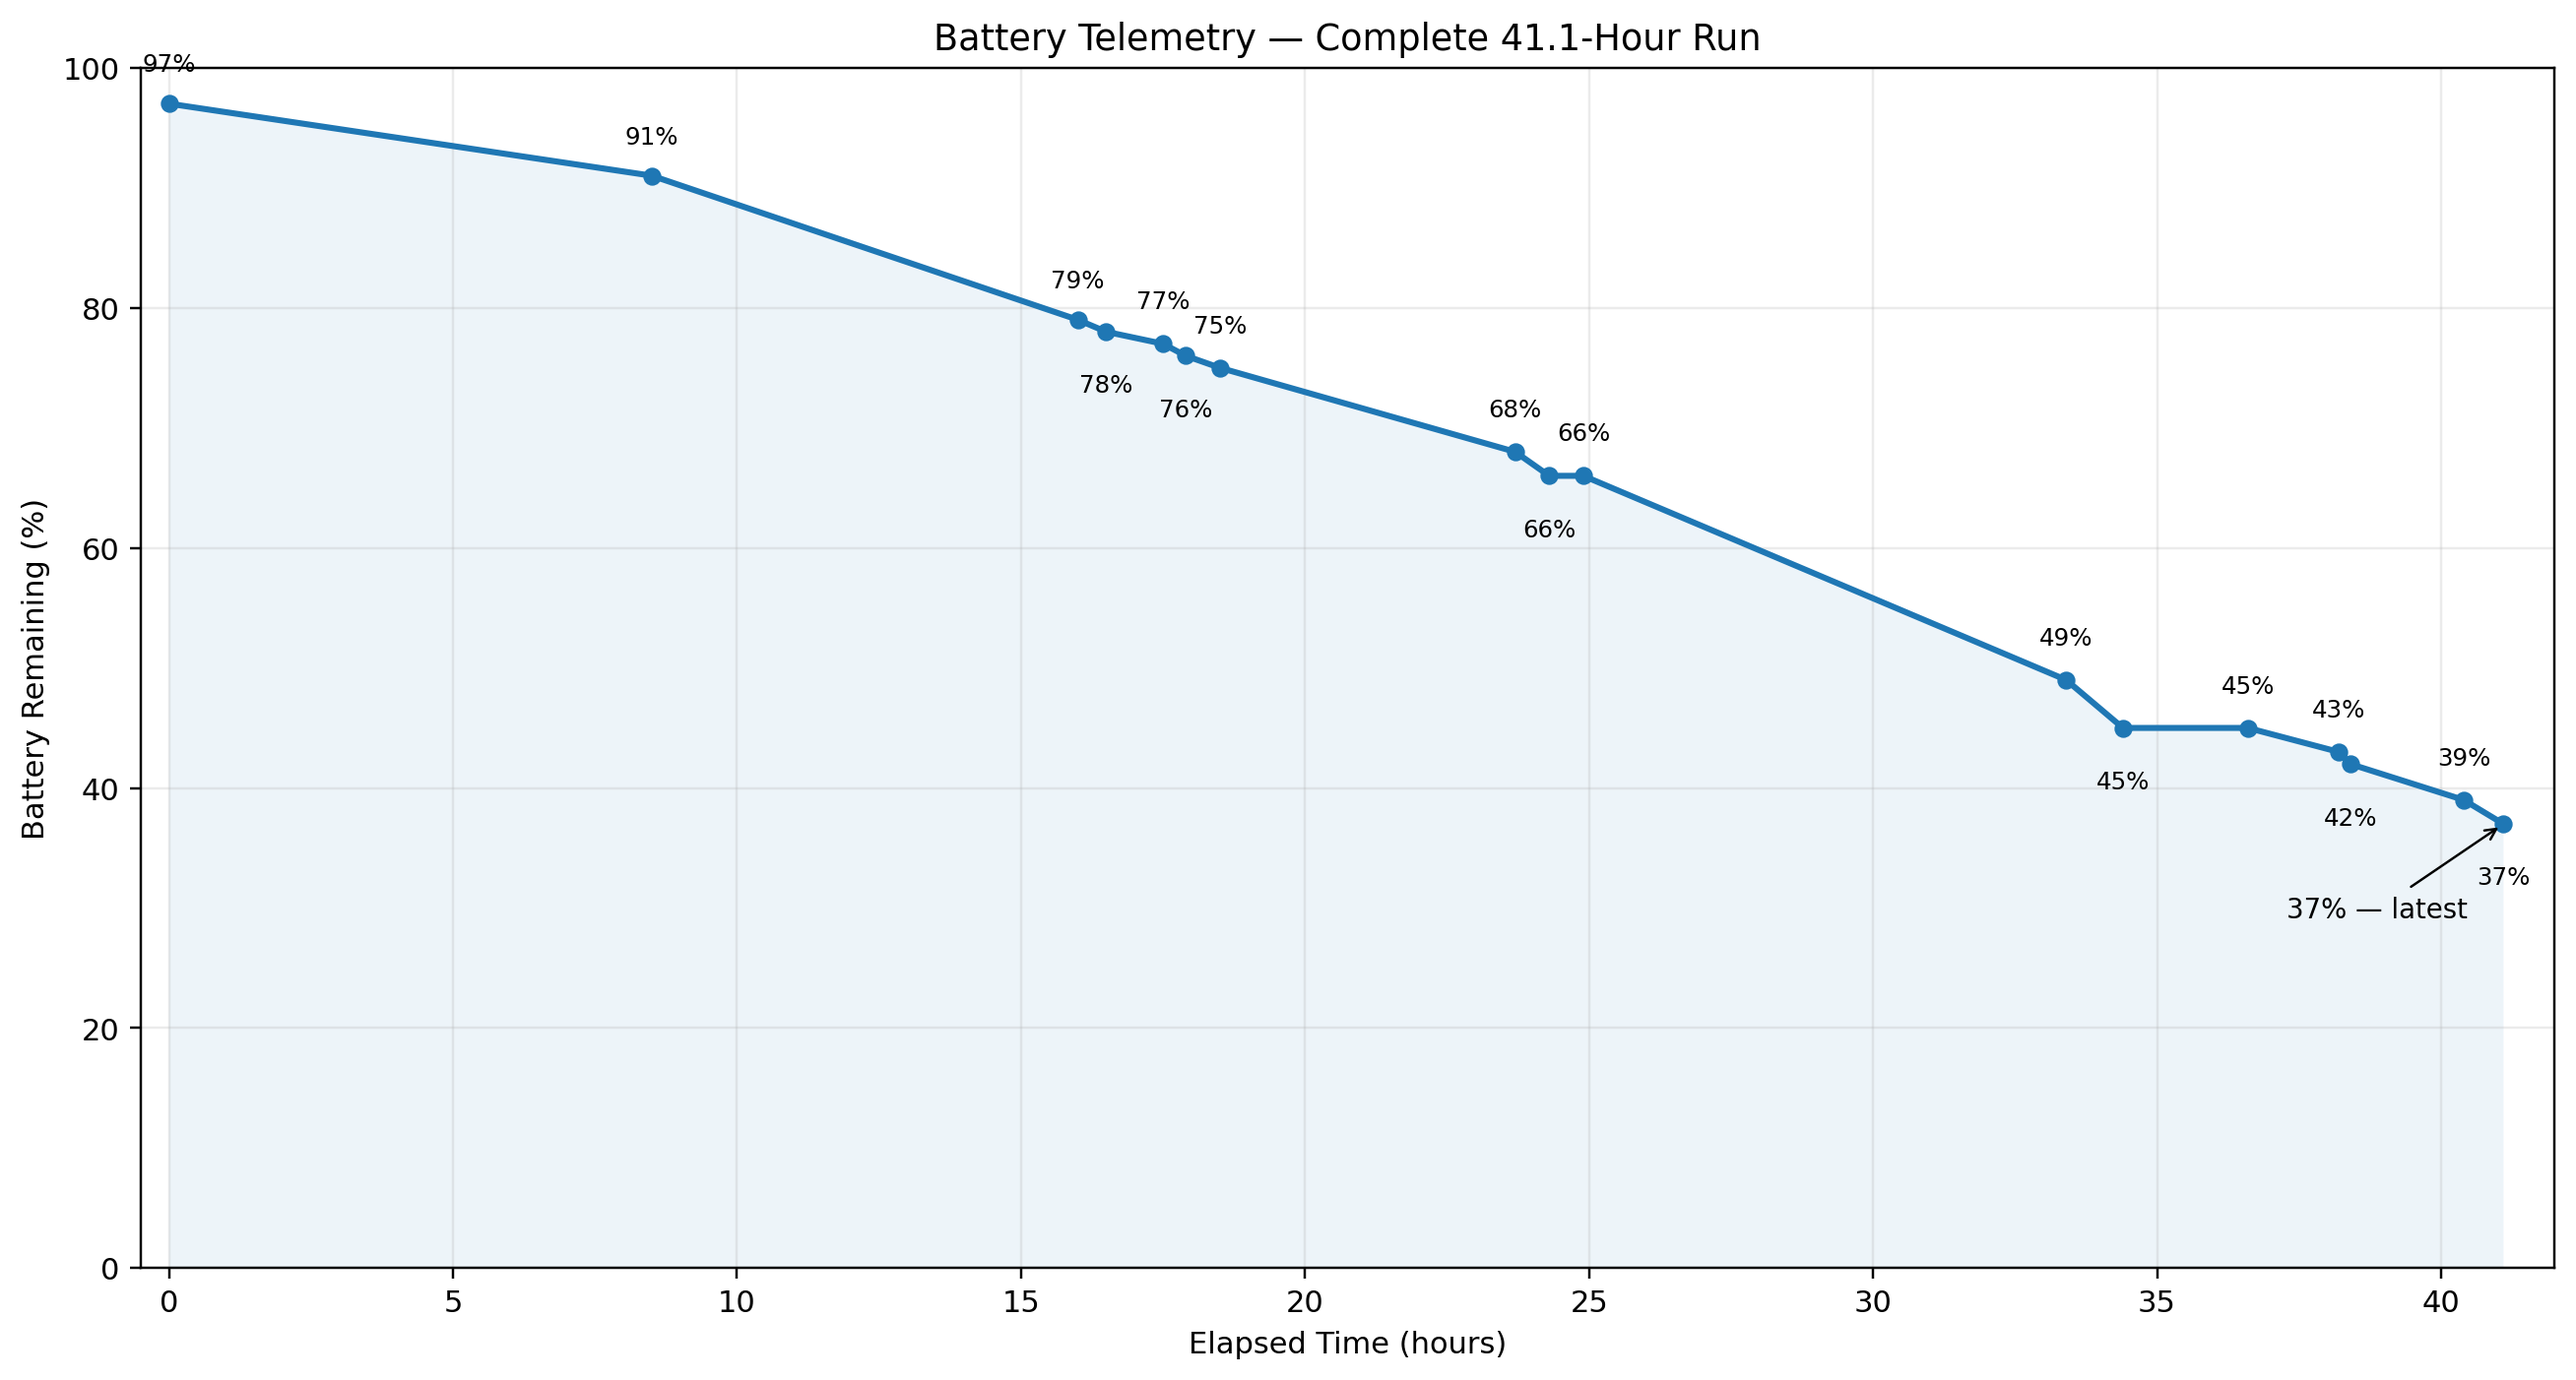
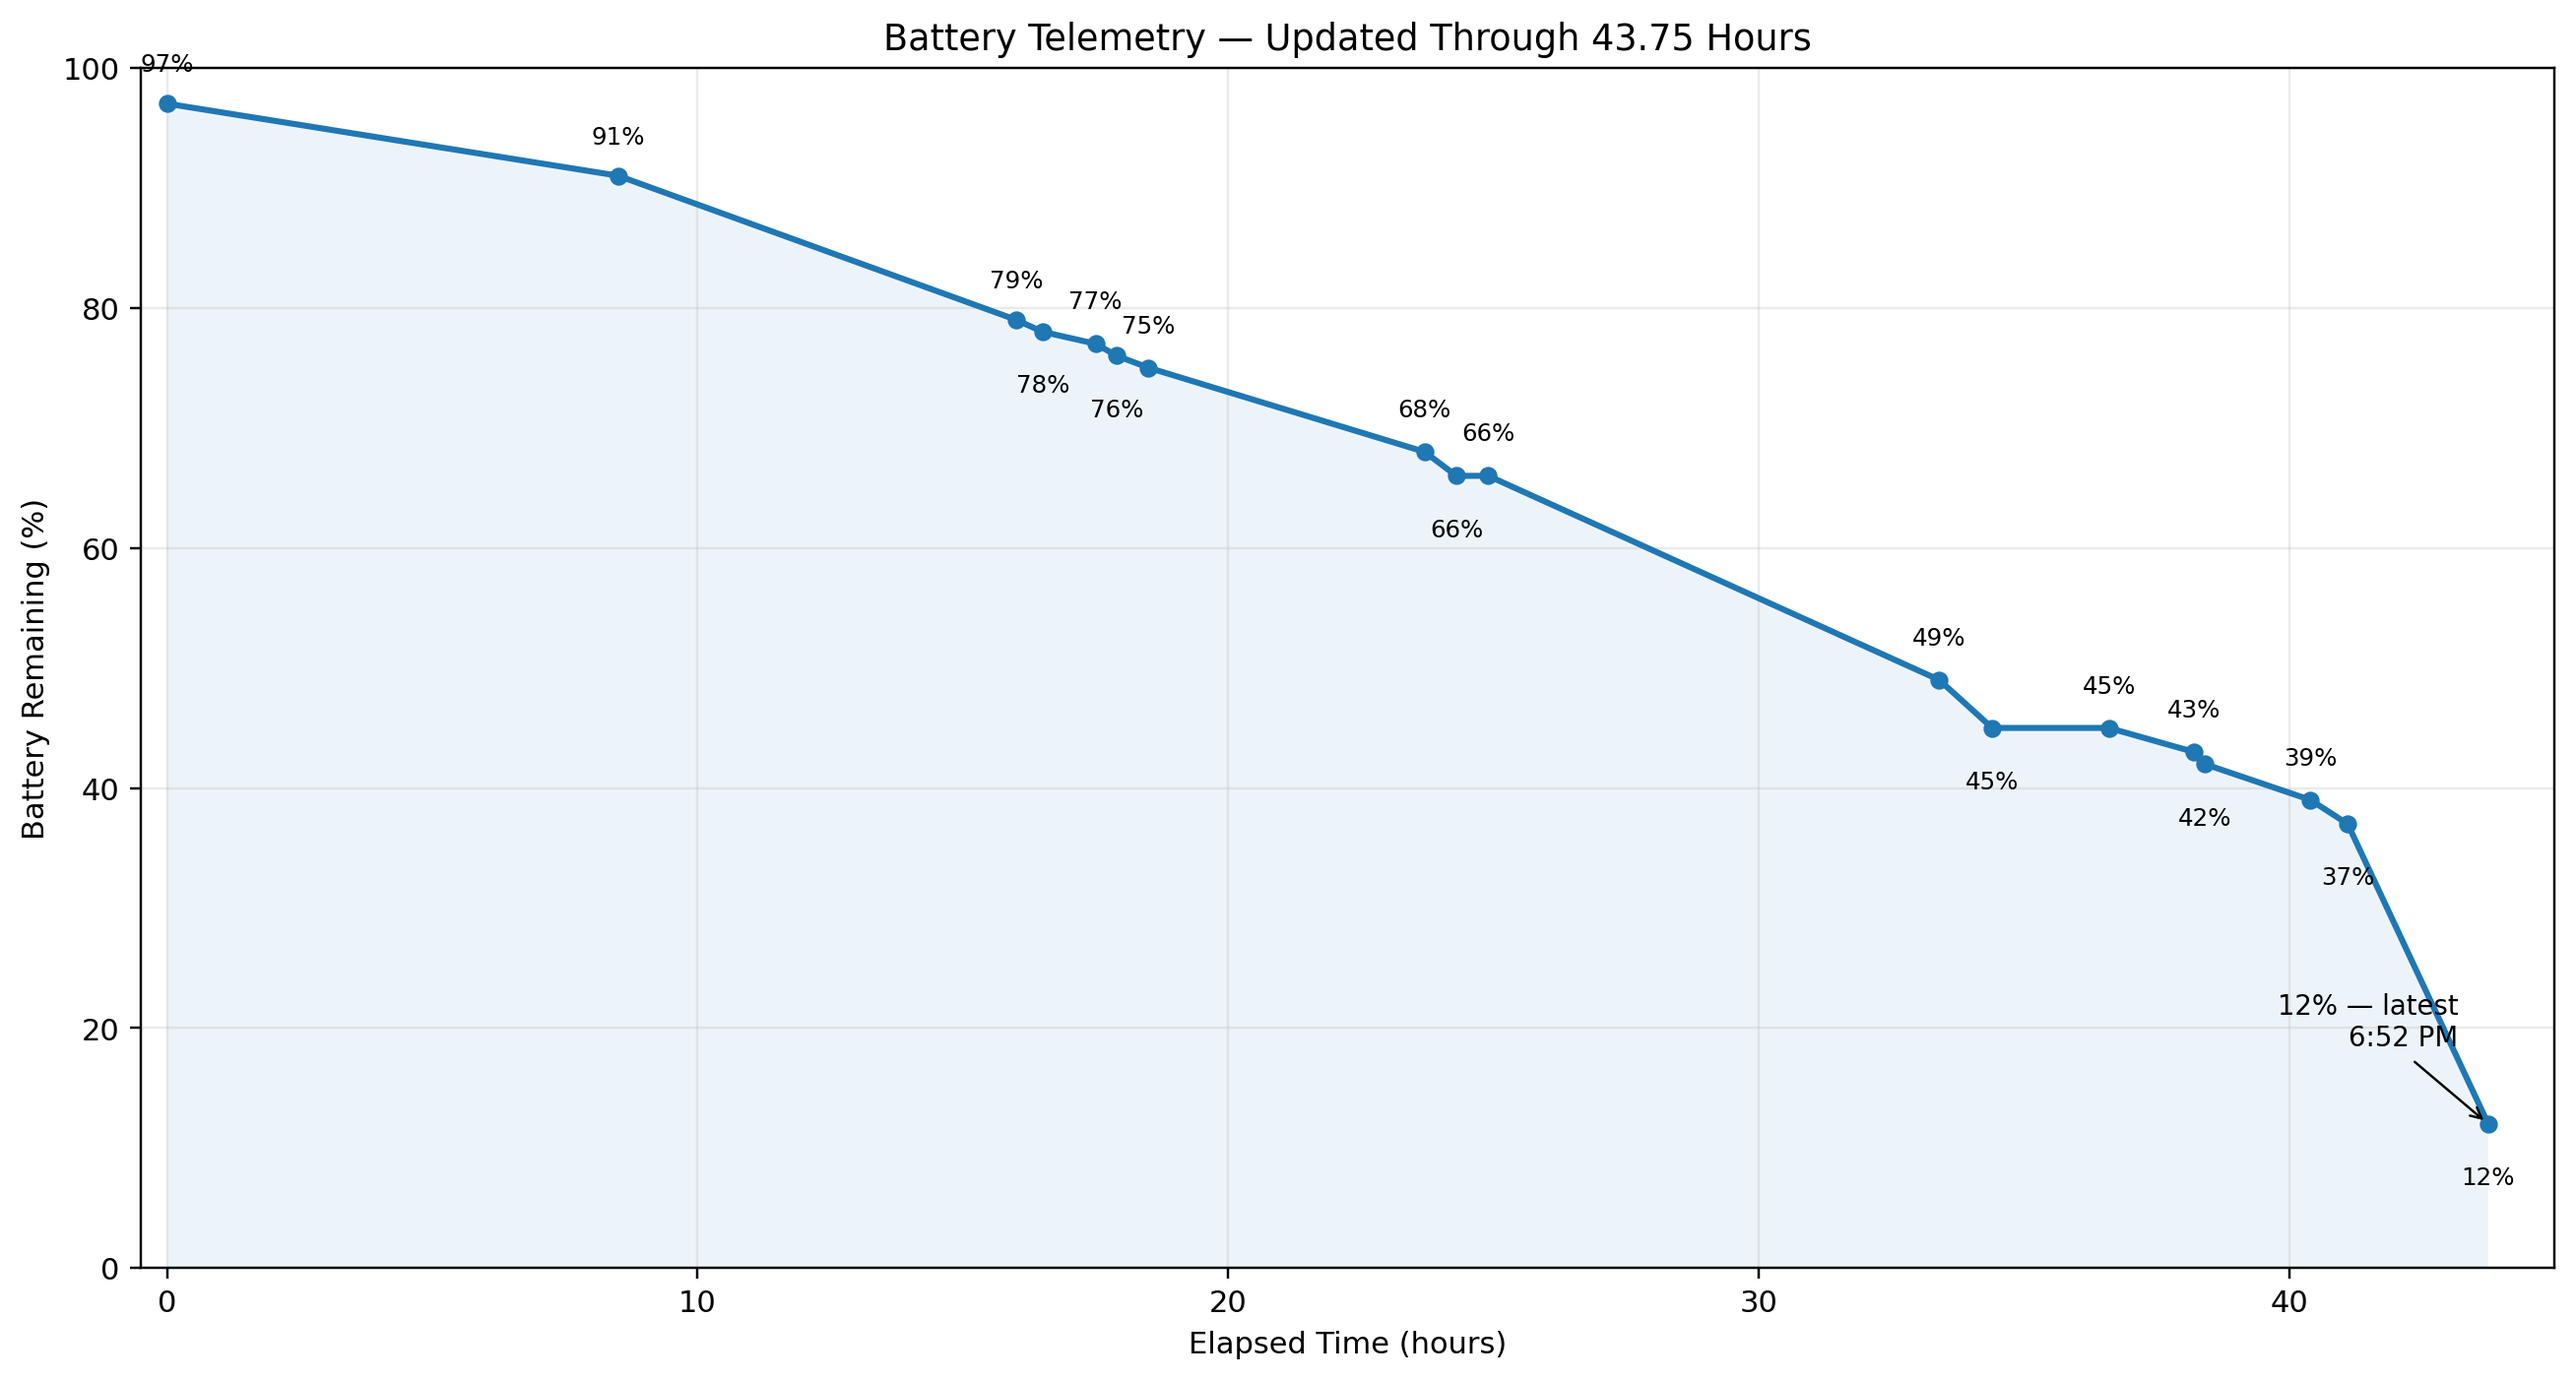
docs: Update battery benchmark to 43.75h with high-res plotted graph and 6.5GB video burst ingestion analysis

diff --git a/README.md b/README.md
@@ -222,29 +222,33 @@ To verify the energy efficiency and thermal profile of the Pixel 2 XL acting as 
 
 ### 📊 Benchmark Conditions & Operational Load
 * **Initial State:** Charged to **97%** on Monday, Aug 17 at 11:07 PM.
-* **Duration:** **41.1 Hours (~1.7 Days)** continuously unplugged from the wall.
-* **Ending State:** **37% Battery** remaining on Wednesday, Aug 19 at 4:13 PM.
+* **Duration:** **43.75 Hours (~1.8 Days)** continuously unplugged from the wall.
+* **Ending State:** **12% Battery** remaining on Wednesday, Aug 19 at 6:52 PM.
 * **Active Background Load:**
   - 🌙 **Always-On Display (AOD):** Kept active 24/7 (clock, date, Now Playing music detection).
   - 📶 **Wi-Fi & P2P Connectivity:** Always-on LAN socket for Resilio Sync listening.
-  - ☁ **Google Photos Cloud Sync:** Background indexing and cloud uploading.
+  - ☁ **Google Photos Cloud Sync:** Background indexing, video encoding, and cloud uploading.
   - 📈 **On-Screen Telemetry Widgets:** Live visual rendering of storage capacity and battery discharge graphs.
   - 🧹 **Active Buffer Purge:** Buffer filled up to 58.4 GB (~97% full) during the test and was safely purged back down to 23.2 GB without interrupting node operation.
+* **⚡ Ambient Sync vs. Heavy Burst Video Ingestion:**
+  - **Ambient Sync (Hours 0 – 41):** Routine photo batches (~500MB – 1GB) show up as tiny, subtle dips along a very gentle baseline drain curve (~1.46%/hr).
+  - **Massive Video Ingestion Burst (Hours 41.1 – 43.75):** Recorded and synced an unbroken **~30-minute 1080p 30fps video (~6.4 GB)** plus a 42-second clip (~170 MB), totalling **~6.57 GB of continuous burst ingestion**. The simultaneous high-bandwidth Wi-Fi transfer, rapid flash NAND writes, and intensive Google Photos video processing caused a steep, visible discharge from **37% down to 12%** in ~2.65 hours.
 
 ### 📈 Discharge & Thermal Metrics
 
 | Metric | Measured Value | Operational Insight |
 | :--- | :--- | :--- |
-| **Total Runtime (Unplugged)** | **41.1 Hours** | 97% → 37% (60% consumed over ~1.7 days) |
-| **Average Hourly Drain** | **~1.46% / hour** | ~35% battery consumed per 24 hours |
-| **Projected Total Battery Life** | **~68–72 Hours (~3 Full Days)** | Survives multi-day power outages with zero downtime |
+| **Total Runtime (Unplugged)** | **43.75 Hours** | 97% → 12% (85% consumed over ~1.8 days under mixed idle + burst load) |
+| **Baseline Idle / Ambient Drain** | **~1.46% / hour** | ~35% battery consumed per 24 hours under standard background sync |
+| **Heavy Video Ingestion Drain** | **~9.4% / hour** | Continuous 6.5GB+ video Wi-Fi sync, local flash writes, and cloud upload |
+| **Projected Total Battery Life** | **~50–70 Hours (~2–3 Days)** | Easily withstands extended power outages even with active data ingestion |
 | **Idle Thermal Profile (AC active)** | **67°F – 69°F (~19.4°C – 20.5°C)** | Sub-ambient thermal dissipation with room AC active |
 | **Standard Thermal Profile** | **77°F (~25.0°C)** | Nominal room temperature during active ingestion |
 
 ### 📊 Plotted Battery Discharge Curve
 
 <div align="center">
-  <img src="assets/battery_telemetry_graph.png" width="95%" style="border-radius: 12px; margin: 10px auto;" alt="Pixel 2 XL Battery Telemetry Plotted Discharge Curve (41.1-Hour Run)" />
+  <img src="assets/battery_telemetry_graph.png" width="95%" style="border-radius: 12px; margin: 10px auto;" alt="Pixel 2 XL Battery Telemetry Plotted Discharge Curve (43.75-Hour Run)" />
 </div>
 
 ### 🗓 Key Milestone Telemetry Checkpoints
@@ -252,12 +256,13 @@ To verify the energy efficiency and thermal profile of the Pixel 2 XL acting as 
 | Checkpoint | Elapsed | Battery % | Storage Buffer | Temp | Operational Event & System Notes |
 | :--- | :--- | :--- | :--- | :--- | :--- |
 | **Mon, Aug 17 · 11:07 PM** | 0.0 hrs | **97%** | 56.9 GB (95%) | — | 🔌 Unplugged from 7.5W adapter; benchmark begins |
-| **Tue, Aug 18 · 07:34 AM** | 8.5 hrs | **91%** | 56.8 GB (95%) | — | 🌙 Overnight standby with Always-On Display (0.71%/hr drain) |
+| **Tue, Aug 18 · 07:34 AM** | 8.5 hrs | **91%** | 56.8 GB (95%) | — | 🌙 Overnight standby with Always-On Display (0.71%/hr baseline) |
 | **Tue, Aug 18 · 03:04 PM** | 16.0 hrs | **79%** | 57.7 GB (96%) | — | 🔄 Background P2P LAN sync & incoming media ingestion |
 | **Tue, Aug 18 · 10:51 PM** | 23.7 hrs | **68%** | 58.4 GB (97%) | **77°F (25°C)** | ⏱ 24-Hour Milestone: only 29% battery consumed in 1 full day |
 | **Wed, Aug 19 · 08:28 AM** | 33.4 hrs | **49%** | 58.4 GB (98%) | **67°F (19.4°C)** | ❄ AC blasting at peak; temperature drops to sub-ambient 67°F |
 | **Wed, Aug 19 · 09:31 AM** | 34.4 hrs | **45%** | 23.1 GB (38%) | — | 🧹 **Storage Purged:** 35.3 GB cleared via Google Photos Free Up Space |
-| **Wed, Aug 19 · 04:13 PM** | 41.1 hrs | **37%** | 23.2 GB (38%) | — | 🏁 **Latest Reading:** 37% remaining (~31h projected battery remaining) |
+| **Wed, Aug 19 · 04:13 PM** | 41.1 hrs | **37%** | 23.2 GB (38%) | — | 📱 Routine ambient sync baseline before video burst |
+| **Wed, Aug 19 · 06:52 PM** | 43.75 hrs | **12%** | ~29.8 GB (49%) | — | 📹 **Heavy Video Burst:** Ingested **6.57 GB** (30-min 1080p video); steep 25% drain |
 
 <div align="center">
   <!-- Progression of the 41-hour unplugged drain test -->
